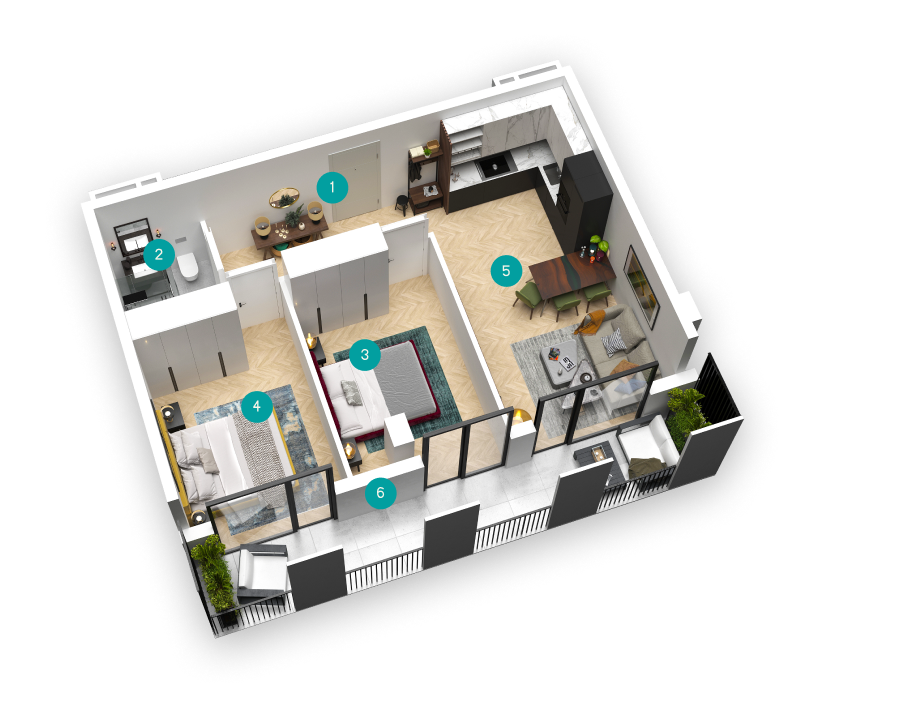
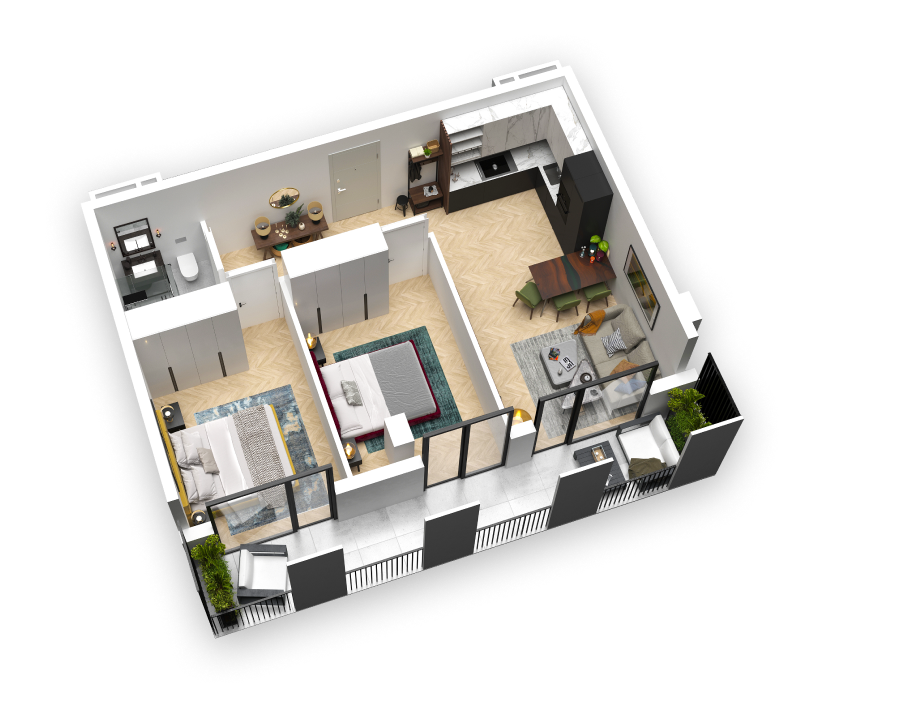
positioning numbers

diff --git a/src/components/Apartments/apartmentsInner/Apartment71Sec.js b/src/components/Apartments/apartmentsInner/Apartment71Sec.js
@@ -5,61 +5,36 @@ import logo from '../../../images/logo.svg'
 import './ApartmentInnerCSS.css'
 import m102inner from '../../../images/innerRenders/m71innerSec.png'
 
-const roomsArr = [
-    {   
-        id: 1,
-        number:1,
-        roomTypeGeo: 'ჰოლი',
-        roomTypeEng: 'Hall',
-        roomTypeRus: 'aaaa',
-        m2: '7.1 M2'      
-    },
+const pointerStyle6 ={
+    left: '42%',
+    top: '70%'
+}
 
-    {   
-        id: 2,
-        number:2,
-        roomTypeGeo: 'სააბაზანო',
-        roomTypeEng: 'Hall',
-        roomTypeRus: 'aaaa',
-        m2: '4 M2'
-    },
+const pointerStyle5 ={
+    left: '52%',
+    top: '36%'
+}
 
-    {
-        id: 3,
-        number:3,
-        roomTypeGeo: 'საძინებელი 1',
-        roomTypeEng: 'Hall',
-        roomTypeRus: 'aaaa',
-        m2: '12.7 M2'
-    },
+const pointerStyle4 ={
+    right: '70%',
+    top: '54%'
+}
 
-    {
-        id: 4,
-        number:4,
-        roomTypeGeo: 'საძინებელი 2',
-        roomTypeEng: 'Hall',
-        roomTypeRus: 'aaaa',
-        m2: '13.5 M2'
-    },
+const pointerStyle3 ={
+    right: '54%',
+    top: '50%'
+}
 
-    {
-        id: 5,
-        number:5,
-        roomTypeGeo: 'სტუდიო',
-        roomTypeEng: 'Hall',
-        roomTypeRus: 'aaaa',
-        m2: '20.4 M2'
-    },
+const pointerStyle2 ={
+    right: '80%',
+    top: '38%'
+}
 
-    {
-        id: 6,
-        number:6,
-        roomTypeGeo: 'აივანი',
-        roomTypeEng: 'Hall',
-        roomTypeRus: 'aaaa',
-        m2: '13.8 M2'
-    }
-]
+const pointerStyle1 ={
+    right: '58%',
+    top: '24%'
+}
+
 
 export default function Apartment71Sec() {
 
@@ -78,6 +53,14 @@ export default function Apartment71Sec() {
     const [roomGeo, setRoomGeo] = useState(null)
     const [roomEng, setRoomEng] = useState(null)
     const [roomRus, setRoomRus] = useState(null)
+
+    const [ballNumber, setBallNumber] = useState(null)
+    const [ball1txt, setBall1txt] = useState(null)
+    const [ball2txt, setBall2txt] = useState(null)
+    const [ball3txt, setBall3txt] = useState(null)
+    const [ball4txt, setBall4txt] = useState(null)
+    const [ball5txt, setBall5txt] = useState(null)
+    const [ball6txt, setBall6txt] = useState(null)
 
     useEffect(()=>{
         setIsEng(false)
@@ -157,6 +140,68 @@ export default function Apartment71Sec() {
         localStorage.setItem('language', 'rus')
     }
 
+    const roomsArr = [
+        {   
+            id: 1,
+            number:1,
+            roomTypeGeo: 'ჰოლი',
+            roomTypeEng: 'Hall',
+            roomTypeRus: 'aaaa',
+            m2: '7.1 M2',
+            forBold: `${ball1txt}`      
+        },
+    
+        {   
+            id: 2,
+            number:2,
+            roomTypeGeo: 'სააბაზანო',
+            roomTypeEng: 'Hall',
+            roomTypeRus: 'aaaa',
+            m2: '4 M2',
+            forBold: `${ball2txt}`
+        },
+    
+        {
+            id: 3,
+            number:3,
+            roomTypeGeo: 'საძინებელი 1',
+            roomTypeEng: 'Hall',
+            roomTypeRus: 'aaaa',
+            m2: '12.7 M2',
+            forBold: `${ball3txt}`
+        },
+    
+        {
+            id: 4,
+            number:4,
+            roomTypeGeo: 'საძინებელი 2',
+            roomTypeEng: 'Hall',
+            roomTypeRus: 'aaaa',
+            m2: '13.5 M2',
+            forBold: `${ball4txt}`
+        },
+    
+        {
+            id: 5,
+            number:5,
+            roomTypeGeo: 'სტუდიო',
+            roomTypeEng: 'Hall',
+            roomTypeRus: 'aaaa',
+            m2: '20.4 M2',
+            forBold: `${ball5txt}`
+        },
+    
+        {
+            id: 6,
+            number:6,
+            roomTypeGeo: 'აივანი',
+            roomTypeEng: 'Hall',
+            roomTypeRus: 'aaaa',
+            m2: '13.8 M2',
+            forBold: `${ball6txt}`
+        }
+    ]
+
     return(
         <>
         <div className='Navbar'  style={{backgroundColor:'#A9C1A9'}}>
@@ -184,6 +229,118 @@ export default function Apartment71Sec() {
 
                 <div className="apartment_main_inner_left">
                     <img src={m102inner} alt="m102inner" />
+
+                    <span style={pointerStyle6} className="pointers"
+                        onClick={()=>{
+                            if(ballNumber === 6){
+                                setBallNumber(null)
+                                setBall6txt(null)
+                            }else{
+                                setBallNumber(6)
+                                setBall6txt('bold')
+
+                                setBall1txt(null)
+                                setBall2txt(null)
+                                setBall3txt(null)
+                                setBall4txt(null)
+                                setBall5txt(null)
+                            }
+                        }}
+                    >6</span>
+
+                    <span style={pointerStyle5} className="pointers"
+                        onClick={()=>{
+                            if(ballNumber === 5){
+                                setBallNumber(null)
+                                setBall5txt(null)
+                            }else{
+                                setBallNumber(5)
+                                setBall5txt('bold')
+
+                                setBall1txt(null)
+                                setBall2txt(null)
+                                setBall3txt(null)
+                                setBall4txt(null)
+                                setBall6txt(null)
+                            }
+                        }}
+                    >5</span>
+
+                    <span style={pointerStyle4} className="pointers"
+                        onClick={()=>{
+                            if(ballNumber === 4){
+                                setBallNumber(null)
+                                setBall4txt(null)
+                            }else{
+                                setBallNumber(4)
+                                setBall4txt('bold')
+
+                                setBall1txt(null)
+                                setBall2txt(null)
+                                setBall3txt(null)
+                                setBall5txt(null)
+                                setBall6txt(null)
+                            }
+                        }}
+                    >4</span>
+
+                    <span style={pointerStyle3} className="pointers"
+                        onClick={()=>{
+                            if(ballNumber === 3){
+                                setBallNumber(null)
+                                setBall3txt(null)
+                            }else{
+                                setBallNumber(3)
+                                setBall3txt('bold')
+
+                                setBall1txt(null)
+                                setBall2txt(null)
+                                setBall4txt(null)
+                                setBall5txt(null)
+                                setBall6txt(null)
+                            }
+                        }}
+                    >3</span>
+
+                    <span style={pointerStyle2} className="pointers"
+                    onClick={()=>{
+                        if(ballNumber === 2){
+                            setBallNumber(null)
+                            setBall2txt(null)
+                        }else{
+                            setBallNumber(2)
+                            setBall2txt('bold')
+                            
+                            setBall1txt(null)
+                            setBall3txt(null)
+                            setBall4txt(null)
+                            setBall5txt(null)
+                            setBall6txt(null)
+                        }
+                    }}
+                    >2</span>
+
+                    <span 
+                        style={pointerStyle1} 
+                        className="pointers" 
+                        onClick={()=> {
+                            if(ballNumber === 1){
+                                setBallNumber(null)
+                                setBall1txt(null)
+                            }else{
+                                setBallNumber(1)
+                                setBall1txt('bold')
+
+                                setBall2txt(null)
+                                setBall3txt(null)
+                                setBall4txt(null)
+                                setBall5txt(null)
+                                setBall6txt(null)
+                            }
+                        }
+                            
+                        }
+                        >1</span>
                 </div>
 
                 <div className="apartment_main_inner_right">
@@ -195,15 +352,15 @@ export default function Apartment71Sec() {
                                 <div className="apartment_rooms" key={room.id}>
                                     <div className="room">
 
-                                        <div className="number_name">
+                                    <div className="number_name">
                                             <div className="numberRounded">{room.number}</div>
 
-                                            <p className={roomGeo}>{room.roomTypeGeo}</p>
-                                            <p className={roomEng}>{room.roomTypeEng}</p>
-                                            <p className={roomRus}>{room.roomTypeRus}</p>
+                                            <p className={roomGeo}><span className={room.forBold}>{room.roomTypeGeo}</span></p>
+                                            <p className={roomEng}><span className={room.forBold}>{room.roomTypeEng}</span></p>
+                                            <p className={roomRus}><span className={room.forBold}>{room.roomTypeRus}</span></p>
                                         </div>
 
-                                        <p>{room.m2}</p>
+                                        <p className={room.forBold}>{room.m2}</p>
                                     </div>
                                 </div>
                             )

diff --git a/src/components/Apartments/apartmentsInner/Apartment75.js b/src/components/Apartments/apartmentsInner/Apartment75.js
@@ -351,7 +351,7 @@ export default function Apartment75() {
                                 <div className="apartment_rooms" key={room.id}>
                                     <div className="room">
 
-                                    <div className="number_name">
+                                        <div className="number_name">
                                             <div className="numberRounded">{room.number}</div>
 
                                             <p className={roomGeo}><span className={room.forBold}>{room.roomTypeGeo}</span></p>
